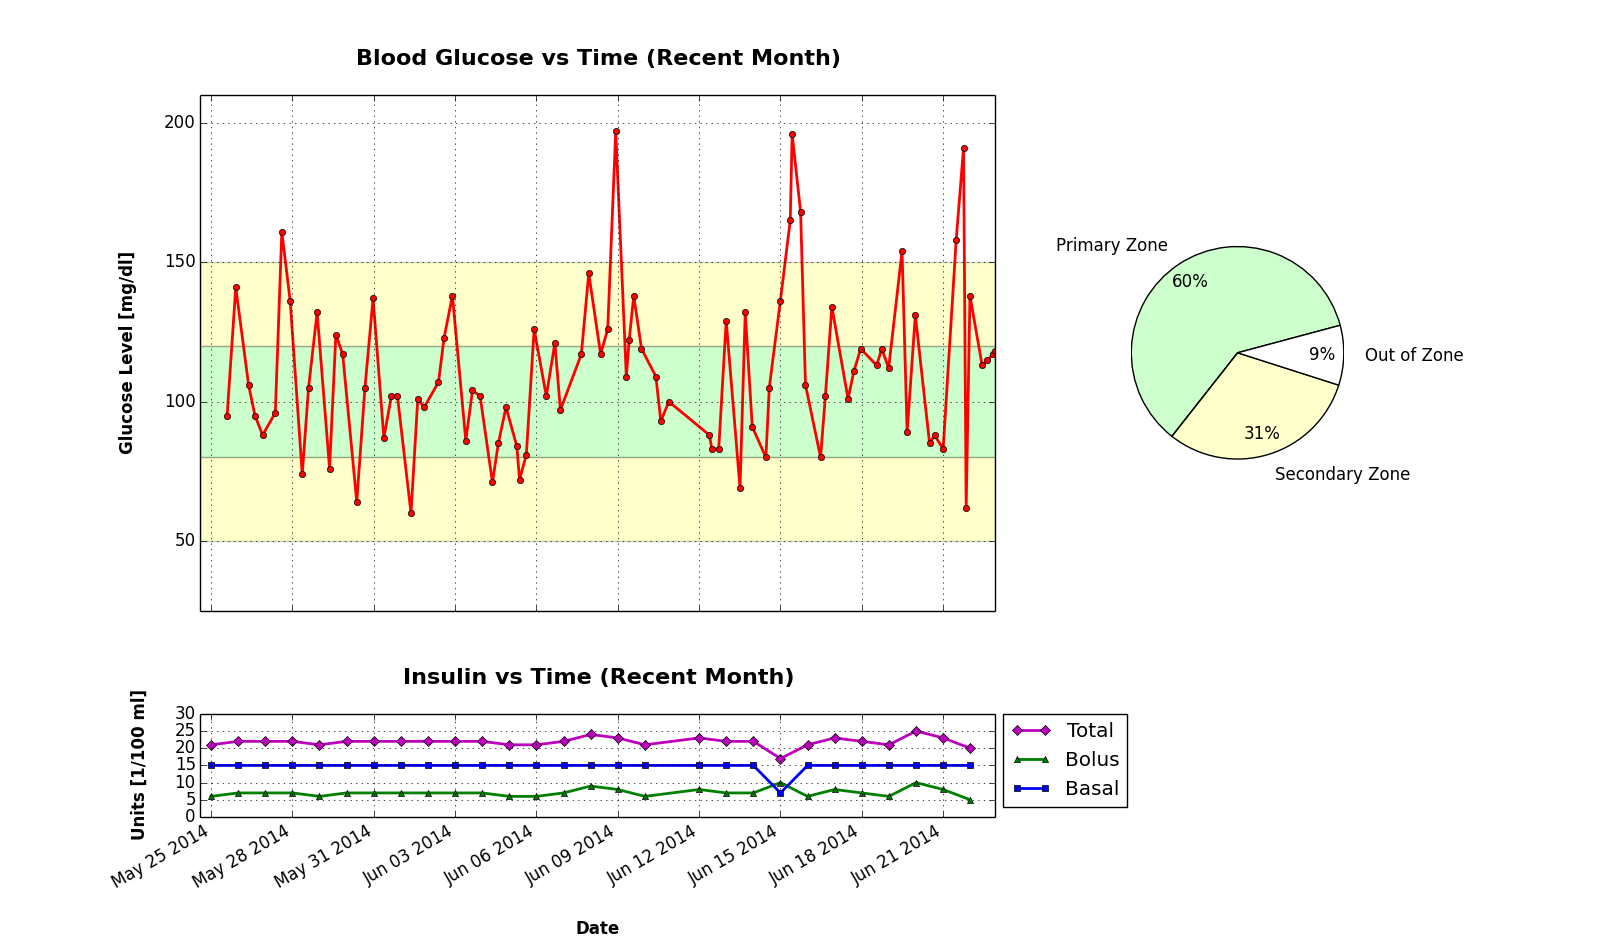
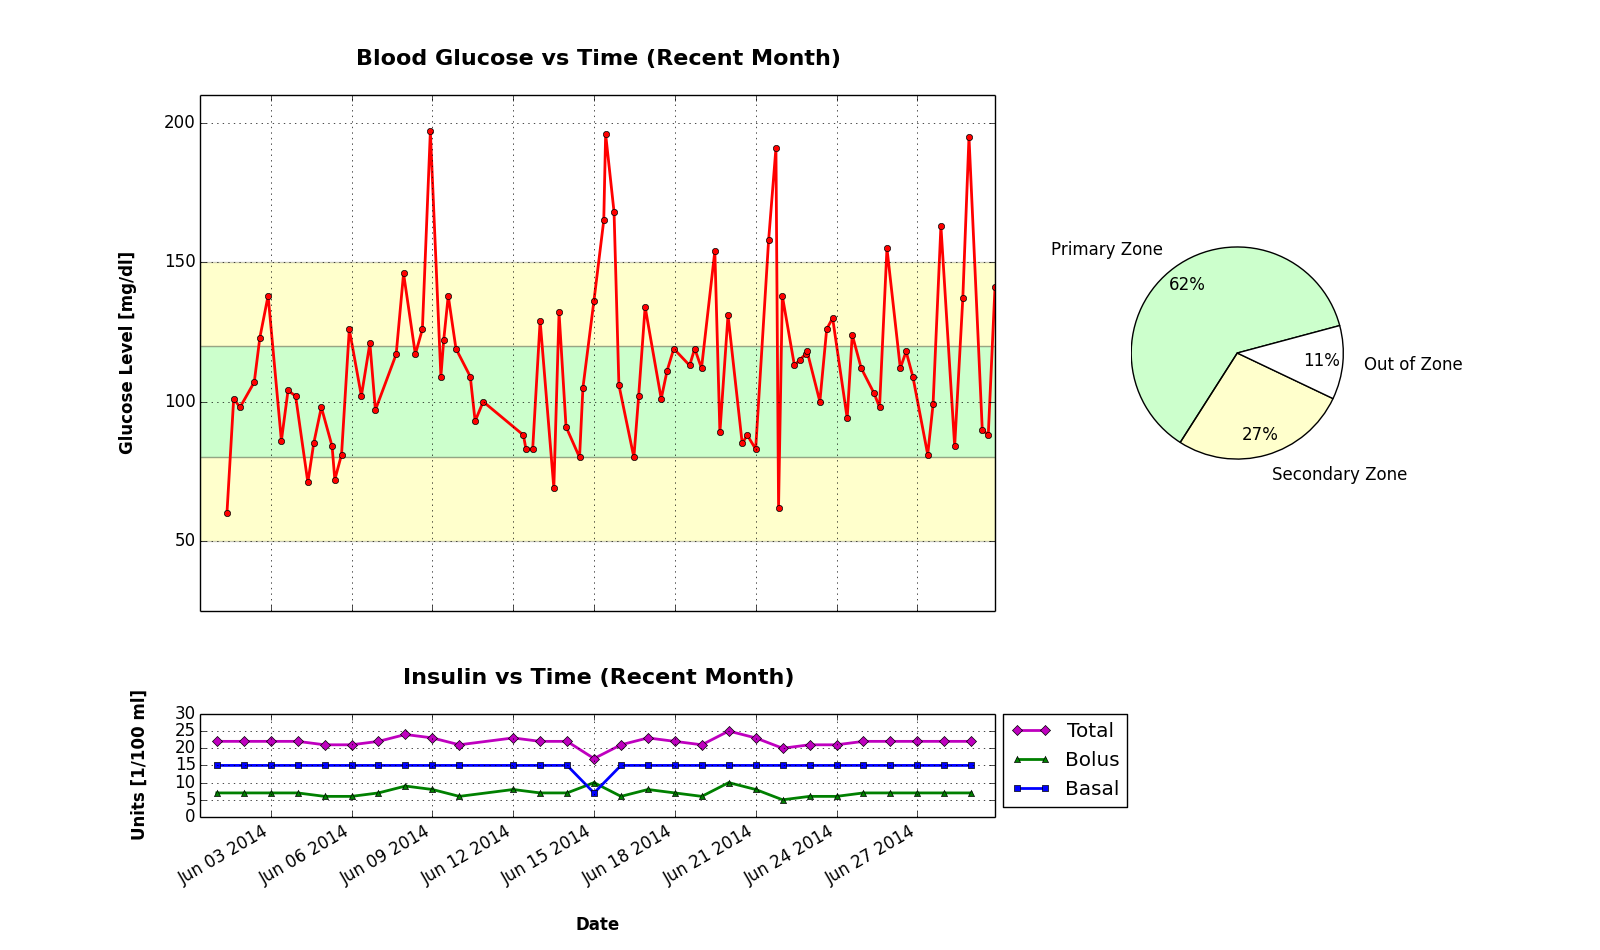
Data Update

diff --git a/d_update.py b/d_update.py
@@ -2,17 +2,16 @@
 
 
 def update():
-    date = ['2014/06/22']
-    carb = ['42', '7', '44', '14', '19', '7']
-    glucose = [['10:30', '113', '-'],
-               ['15:09', '115', '-'],
-               ['20:24', '117', '-'],
-               ['21:52', '118', '-']]
-    insulin_fast = [['8:00', '2'],
-                    ['12:50', '2'],
-                    ['18:40', '1']]
+    date = ['2014/06/29']
+    carb = ['42', '14', '32', '14', '47', '2']
+    glucose = [['9:50', '90', '-'],
+               ['15:10', '88', '-'],
+               ['21:10', '141', '-']]
+    insulin_fast = [['7:40', '2'],
+                    ['12:45', '2'],
+                    ['19:00', '3']]
     insulin_slow = [['0:00', '15']]
-    weight = [['171']]
+    weight = [['172']]
 
     carb_name = ['breakfast', 'morning_snack', 'lunch', 'afternoon_snack',
                  'dinner', 'evening_snack']
